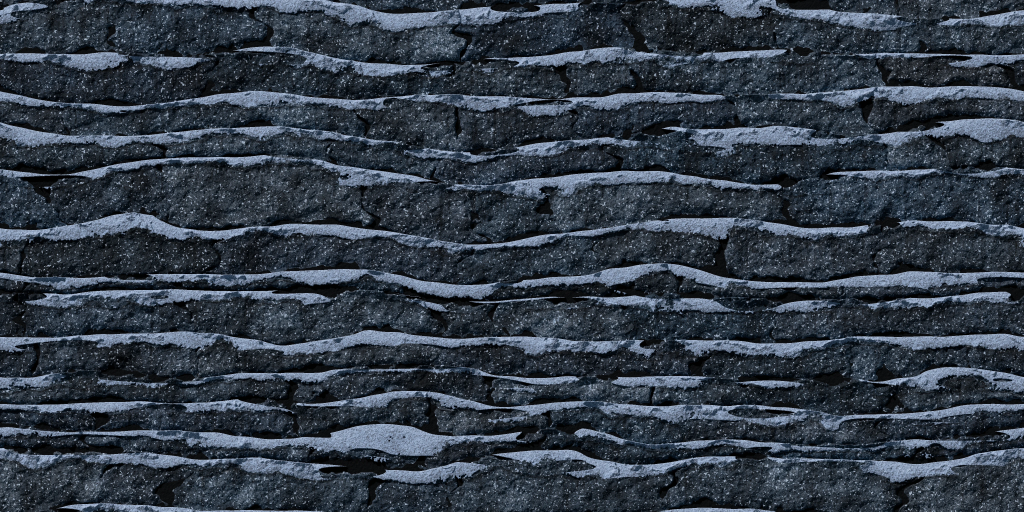
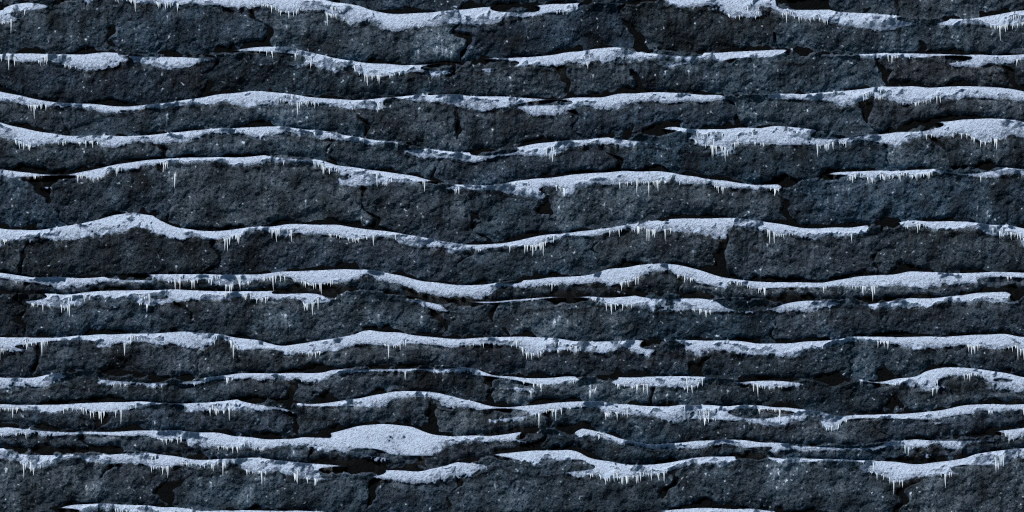
Версия 2026.11.02-113: по критику r36 — Арктика: порода без белой «соли», иней на плитах, снег ярче, сосульки под кромками
Порода rock_arctic обработана dev/tools/desalt_rock.py: светлые крупинки на тёмном камне сведены к медиане окрестности
(зерно и резкость камня прежние), голубоватый иней у верха плит под снежными полосами, снег на уступах ярче и белее,
сосульки в самой родной ×4 под ~30 % кромок — чётко при приближении. Искры в снежной шапке втрое реже и мягче.

Claude-Session: https://claude.ai/code/session_01JvXrYdG1XCH4i3GESsQzbh

diff --git a/js/terrain_visual.js b/js/terrain_visual.js
@@ -383,7 +383,7 @@ function shadeMaterial(S, mt, x, y, t, capT, d, info, o, isBack) {
       const lip = capT - t; if (lip < 3) { const q = (1 - lip / 3) * 0.8; r += (111 - r) * q; g += (134 - g) * q; bl += (184 - bl) * q; }
       f = 1 + (tileAt(tl.t2, x * 0.9, y * 1.3, 3, 93) - 0.5) * 0.28 + (n1 - 0.5) * 0.1 + (n2 - 0.5) * 0.08;
       if (t < 1.8) f *= 1.05;
-      if (kk < 0.55 && hash3(x, y, 211) > 0.995) { r = 252; g = 253; bl = 255; f = 1; }                            // искры
+      if (kk < 0.55 && hash3(x, y, 211) > 0.9985) { r += (252 - r) * 0.6; g += (253 - g) * 0.6; bl += (255 - bl) * 0.6; f = 1; }   // искры (v113, r36: «меньше белой соли» — втрое реже и мягче)
     } else if (S.rubbleCap) {
       /* v101 (критик r35: «корка каньона белёсая 14 px; эталон 165/115/72, ~30 px, щебень и пучки травы»): корка из комьев и щебня
          3–8 px — у каждого свой тон (часть серее), свет сверху слева, тёмные щели между ними; без светлой нитки по верху */

diff --git a/index.html b/index.html
@@ -114,7 +114,7 @@
         </div>
       </div>
     </div>
-    <footer class="menu-footer"><span id="game-version">ВЕРСИЯ 2026.10.29-112</span><span>ПЛАНИРУЙ ХОД. МЕНЯЙ ЛАНДШАФТ.</span><span class="footer-status"><i></i> ГОТОВ К БОЮ</span></footer>
+    <footer class="menu-footer"><span id="game-version">ВЕРСИЯ 2026.11.02-113</span><span>ПЛАНИРУЙ ХОД. МЕНЯЙ ЛАНДШАФТ.</span><span class="footer-status"><i></i> ГОТОВ К БОЮ</span></footer>
   </section>
 
   <!-- Онлайн -->

diff --git a/dev/tools/desalt_rock.py b/dev/tools/desalt_rock.py
@@ -1,0 +1,98 @@
+"""Убирает белую «соль» на тёмной породе (критик r36, Арктика: «меньше белых точек-соли в 1 px»).
+
+python dev/tools/desalt_rock.py <родная.webp> <выход.png> [--k 7] [--thr 22] [--keep 0.15] [--dark 95] [--gain 1.04] [--frost 0.55] [--snowk 1.15] [--icicles 0.3]
+затем: python dev/make_native.py <выход.png> <имя> --no-match --lossy --quality 90   (малая — точное уменьшение родной)
+
+Крупинки — светлые пятнышки уже k пикселей родной текстуры, ярче фона больше чем на thr (белый «цилиндр»: L − открытие L):
+там, где фон вокруг тёмный (открытие яркости < dark — порода, а не снег на уступах), их цвет сводится к медиане окрестности,
+остаётся доля keep. Остальные пиксели не меняются — зерно и резкость камня (R родной) прежние. Снежные полосы шире k и
+светлый фон не трогаются. Текстура бесшовная — фильтры с заворотом.
+gain — яркость камня (крупинки поднимали среднюю на ~8 %). frost (критик r36: «иней на гранях»; эталон — светлый налёт на
+лицах пластов под снегом): изморозь пятнами у верха каждой плиты, гаснет на frostd пикселей ниже снежной полосы.
+snowk — снег на уступах ярче и белее (критик: «p90 снега ≥ 190»). icicles — доля кромок снежных полос с сосульками
+(критик: «сосульки под 30 % кромок»; эталон — бахрома под уступами): группами, шаг 4–12 px, длина 6–60 px (1,5–15 ед.),
+лёд полупрозрачный — светлая левая грань, голубая правая, капля на кончике; рисуются в родной ×4 — чётко при приближении.
+"""
+import argparse
+
+import numpy as np
+from PIL import Image
+from scipy import ndimage as nd
+
+Image.MAX_IMAGE_PIXELS = None
+
+
+def disk(k):
+    r = (k - 1) / 2; y, x = np.mgrid[-r:r + 1, -r:r + 1]; return (x * x + y * y) <= r * r + 0.5
+
+
+def main():
+    ap = argparse.ArgumentParser()
+    ap.add_argument('src'); ap.add_argument('out')
+    ap.add_argument('--k', type=int, default=7); ap.add_argument('--keep', type=float, default=0.15); ap.add_argument('--thr', type=float, default=22)
+    ap.add_argument('--dark', type=float, default=95)
+    ap.add_argument('--gain', type=float, default=1.04); ap.add_argument('--frost', type=float, default=0.55)
+    ap.add_argument('--frostd', type=float, default=24); ap.add_argument('--snowL', type=float, default=108)
+    ap.add_argument('--snowk', type=float, default=1.15); ap.add_argument('--icicles', type=float, default=0.3)
+    a = ap.parse_args()
+    img = np.asarray(Image.open(a.src).convert('RGB'), dtype=np.float32)
+    L = img @ np.array([0.299, 0.587, 0.114], np.float32)
+    fp = disk(a.k)
+    Lo = nd.grey_opening(L, footprint=fp, mode='wrap')                     # фон без мелких светлых крупинок
+    top = L - Lo
+    bg = nd.gaussian_filter(Lo, 3, mode='wrap')
+    dark = np.clip((a.dark - bg) / 25, 0, 1)                                # тёмная порода вокруг, не снег
+    w = np.clip((top - a.thr) / 20, 0, 1) * dark * (1 - a.keep)
+    w = np.maximum(w, nd.grey_dilation(w, size=3, mode='wrap') * 0.6)       # кромка крупинки — тоже, без светлого ореола
+    base = np.stack([nd.median_filter(img[..., c], size=a.k + 2, mode='wrap') for c in range(3)], -1)
+    out = img - (img - base) * w[..., None]
+    out *= np.where(dark > 0.5, a.gain, 1 + (a.gain - 1) * dark * 2)[..., None]
+    if a.frost > 0:
+        H, W = L.shape; rng = np.random.default_rng(5)
+        snow = nd.gaussian_filter(L, 4, mode='wrap') > a.snowL               # снежные полосы зернистые — по сглаженной яркости
+        d = np.full((H, W), 1e6, np.float32); last = np.full(W, -1e6, np.float32)
+        for ps in range(2):                                                # расстояние вниз от снега (с заворотом по вертикали)
+            for y in range(H):
+                last = np.where(snow[y], y + ps * H, last); d[y] = np.minimum(d[y], y + ps * H - last)
+        def gn(sg):
+            g = nd.gaussian_filter(rng.standard_normal((H, W)).astype(np.float32), sg, mode='wrap'); return (g - g.mean()) / (g.std() + 1e-9)
+        patch = np.clip(0.45 + 0.5 * gn(7), 0, 1); grain = gn(0.8)
+        amt = a.frost * np.exp(-d / a.frostd) * (~snow) * patch * np.clip(0.75 + 0.3 * grain, 0, 1.2)
+        out = out * (1 - amt[..., None]) + np.array([200, 214, 234], np.float32) * amt[..., None]
+        print('frost: mean amount %.3f' % amt.mean())
+    Ls = nd.gaussian_filter(L, 4, mode='wrap'); snow = Ls > a.snowL
+    if a.snowk != 1:
+        m = np.clip((Ls - a.snowL) / 25, 0, 1)[..., None]                  # мягкая маска снега на уступах
+        white = np.array([232, 240, 252], np.float32)
+        out = out * (1 + (a.snowk - 1) * m) * (1 - 0.25 * m * (a.snowk - 1) / 0.15) + white * 0.25 * m * (a.snowk - 1) / 0.15
+    if a.icicles > 0:
+        H, W = L.shape; rng = np.random.default_rng(9)
+        g = nd.gaussian_filter(rng.standard_normal((H, W)).astype(np.float32), 40, mode='wrap')
+        thick = snow.copy()
+        for q in range(1, 7): thick &= np.roll(snow, q, 0)                  # над кромкой ≥ 7 px снега — уступ, а не светлое пятно
+        edge = thick & ~np.roll(snow, -1, 0)                               # снег, под ним порода: нижняя кромка полосы
+        ey, ex = np.nonzero(edge)
+        thr = np.quantile(g[ey, ex], 1 - a.icicles)
+        sel = (g[ey, ex] > thr) & (rng.random(len(ey)) < 1 / 7.5)
+        n = 0
+        for y0, x0 in zip(ey[sel], ex[sel]):
+            u = rng.random(); Lc = rng.uniform(6, 16) if u < 0.7 else rng.uniform(16, 34) if u < 0.95 else rng.uniform(34, 60)
+            w0 = min(8.0, 2.2 + Lc * 0.17); tip = rng.uniform(-0.25, 0.25) * w0; n += 1
+            for k in range(int(Lc) + 1):
+                t = k / Lc; hw = w0 / 2 * (1 - t) ** 0.8 + 0.35; cx = x0 + tip * t; y = (y0 + k) % H
+                for dx in range(int(-hw - 1), int(hw + 2)):
+                    xx = int(round(cx)) + dx; cov = np.clip(hw - abs(xx - cx) + 0.5, 0, 1)
+                    if cov <= 0: continue
+                    side = (xx - cx) / max(hw, 0.5)                           # −1 лево (свет) … +1 право (тень)
+                    col = np.array([214, 228, 246], np.float32) * (1 - max(0, side) * 0.38) + np.array([30, 24, 8], np.float32) * max(0, -side)
+                    al = (0.78 + 0.17 * t) * cov
+                    if k >= int(Lc) - 1 and abs(xx - cx) < 1: col = np.array([240, 248, 255], np.float32); al = cov   # капля
+                    xw = xx % W; out[y, xw] = out[y, xw] * (1 - al) + col * al
+        print('icicles: %d' % n)
+    print('desalt: pixels touched %.2f%%, L>150 before %.3f after %.3f' % ((w > 0.05).mean() * 100, (L > 150).mean(),
+          ((out @ np.array([0.299, 0.587, 0.114], np.float32)) > 150).mean()))
+    Image.fromarray(np.clip(out, 0, 255).round().astype(np.uint8)).save(a.out)
+
+
+if __name__ == '__main__':
+    main()

diff --git a/dev/reviews/r29.md b/dev/reviews/r29.md
@@ -188,3 +188,4 @@ v109 (по r36): вулкан — многоугольные плиты 60–90 
 v110 (по r36): трава долины и замков — оттенок теплее и светлее (фильтр «сепия → поворот тона → насыщенность → яркость» подобран по пикселям эталона: долина sepia 0,39 / hue −17° / sat 1,05 / bright 1,85, замки — приглушённее), висячая и пещерная трава — тот же тон темнее; город — погашенные окна берут стекло из тёмных окон фасада (горящих ≈5 % вместо 8,6–10,6 %, без «битых»), плиты — ровная бетонная стяжка с мокрой кромкой вместо тёмно-синих «подушек» (нижняя граница освещения 0,66, нормаль сглажена, нейтральный цвет); tests/browser.cjs — тайм-ауты waitForFunction передаются третьим аргументом (раньше {timeout} уходил как arg, и действовали 30 с по умолчанию — в медленном окружении старт 32–34 с).
 v111 (по r36, пираты): вода — полоса поверхности моря 56 ед. у ватерлинии из Blender (dev/blender/make_sea.py: океан JONSWAP + рябь вторым океаном с периодом P/8, ортокамера под 13° — лента 3072×320 бесшовна по горизонтали; второй проход — только солнечные блики): в игре кладётся полосами по целым пикселям экрана с перспективой (у борта волны мельче и сжаты, к зрителю в 2,6 раза крупнее; ближние ряды при сдвиге камеры плывут быстрее), мип-уровни с сохранением контраста (вдали гребни не гаснут), дрейф по ветру, отражение кадра ослаблено, блики — два встречных слоя попеременно, ярче на дорожке под солнцем; пена у борта и камней, светлая нижняя кромка полосы, ниже — бирюзовая толща с лучами и каустикой. Полоса воды: σL 24 при эталоне 22–33 (было 9,7), p99 151 (эталон 128–196), средняя 36/52/62 (эталон 31–38/50–58/54–63). «Пунктир» на борту — граница запаса хода: теперь видна только в 220 ед. от бойца.
 v112 (по r36, Alien): друзы — 6–11 гранёных призм и 3–5 мелких сколов у основания (make_decor.py crystals: было 3–5), стекло светится изнутри — ровное ядро, яркая кайма по скользящим граням, у каждой грани своя яркость (mat_crystal, вид Standard вместо AgX — насыщенно, без пастели), ореол в игре шире и ярче (0,55 в центре, радиус 0,6 размера); мох шапки — бархатные подушки 1–7 ед. с густым ворсом побегов 0,25–0,5 ед. из Blender (dev/blender/make_moss.py → cap_moss, родная ×4 2048², при приближении чётко), цвет шапки ровный оливково-золотой (MOSS_C), контраст подушек ×0,65 (capK); свес — тот же мох. Полоса мха: p90 115/100/72 (цель 130/110/70; было 69/67/27 — «соломенные пряди»).
+v113 (по r36, Арктика): порода rock_arctic без «соли» — светлые крупинки уже 7 px родной на тёмном фоне сведены к медиане окрестности (dev/tools/desalt_rock.py; изолированных светлых точек в кадре ×0,26, R родной 0,83 → 0,82), иней — голубоватый налёт пятнами у верха плит под снежными полосами (24 px родной), снег на уступах ×1,15 и белее, сосульки в самой текстуре под ~30 % кромок снежных полос (группами, шаг 4–12 px, 6–60 px длиной — 1,5–15 ед., светлая левая грань, голубая правая, капля), искры в снежной шапке втрое реже и мягче. Снег в кадре: p90 яркости 195.

diff --git a/dev/NEXT_STEPS.md b/dev/NEXT_STEPS.md
@@ -17,8 +17,8 @@
   граница запаса хода видна только рядом с бойцом (был «пунктир» на борту).
 - [x] v112: Alien — друзы 6–11 светящихся изнутри призм с ореолом, бархатный мох подушками из Blender (make_moss.py, cap_moss).
 - [ ] Alien: кристаллы в толще породы (rock_alien) — пучки по 2–4 «бабочкой»; если критик r37 отметит — перерисовать пучки (make_rubble.py, alien_crystals2.py).
-- [ ] Дальше по r36: Арктика — снег ярче (p90 190),
-  иней на гранях, меньше «соли», сосульки под 30 % кромок; каньон — стены пещер плитами, карнизы из щебня; долина —
+- [x] v113: Арктика — порода без «соли» (desalt_rock.py), иней у верха плит, снег на уступах ярче, сосульки под ~30 % кромок.
+- [ ] Дальше по r36: каньон — стены пещер плитами, карнизы из щебня; долина —
   валунов вдвое меньше, без повторяющихся «шатров» в dirt_valley; замки — тёплые угловатые камни в грунте.
 - [ ] Чёткость (цель 28.10): деревья ×5, зерно мягких родных текстур (facade_city, wood_hull, cap_snow…), критик r37.
 
